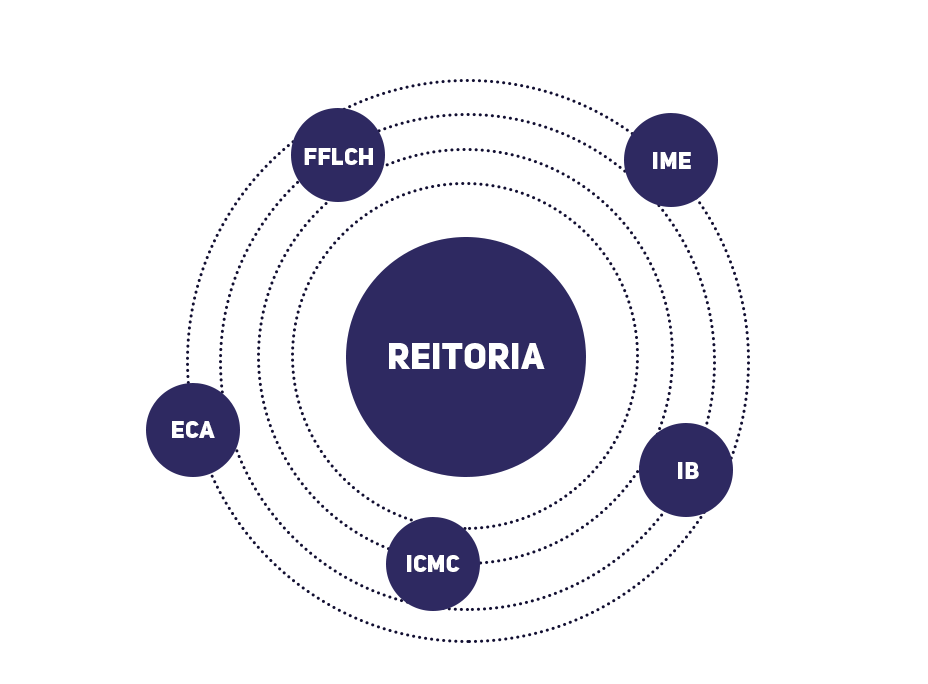
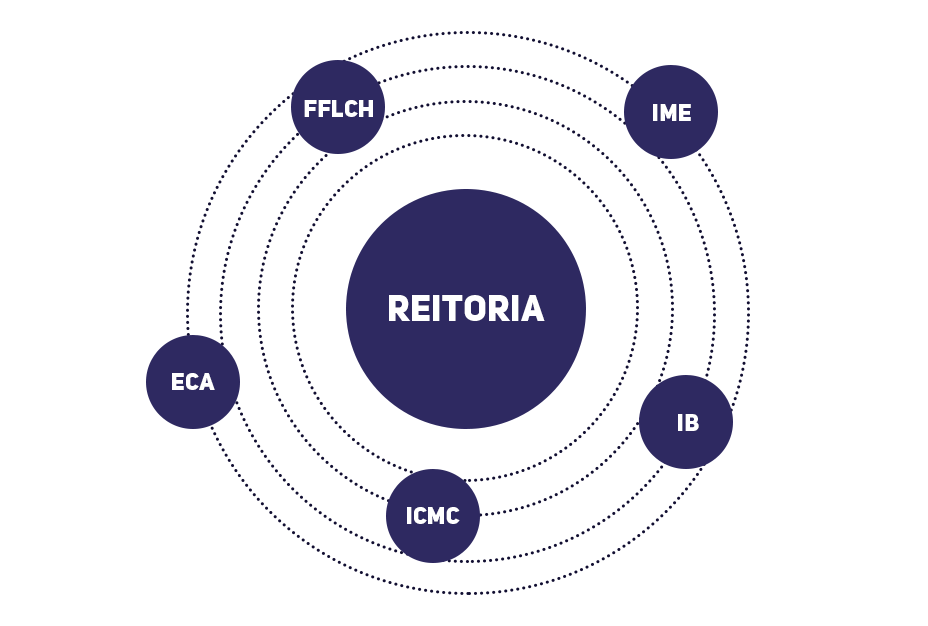
fix img

diff --git a/style.css b/style.css
@@ -1353,8 +1353,8 @@ fepipe {
 
 .fepipe_style {
     position: absolute;
-    left: 853px;
-    top: 551px;
+    left: 833px;
+    top: 500px;
     font-size: 120px;
     display: -webkit-box;
     display: -ms-flexbox;
@@ -1362,7 +1362,7 @@ fepipe {
     -webkit-box-align: center;
     -ms-flex-align: center;
     align-items: center;
-    padding: 40px 40px;
+    padding: 50px 50px;
     border-radius: 40px 40px 40px 40px;
     -webkit-box-pack: center;
     -ms-flex-pack: center;
@@ -1372,7 +1372,7 @@ fepipe {
 .fepipe_style2 {
     position: absolute;
     left: 580px;
-    top: 700px;
+    top: 650px;
     font-size: 120px;
     display: -webkit-box;
     display: -ms-flexbox;
